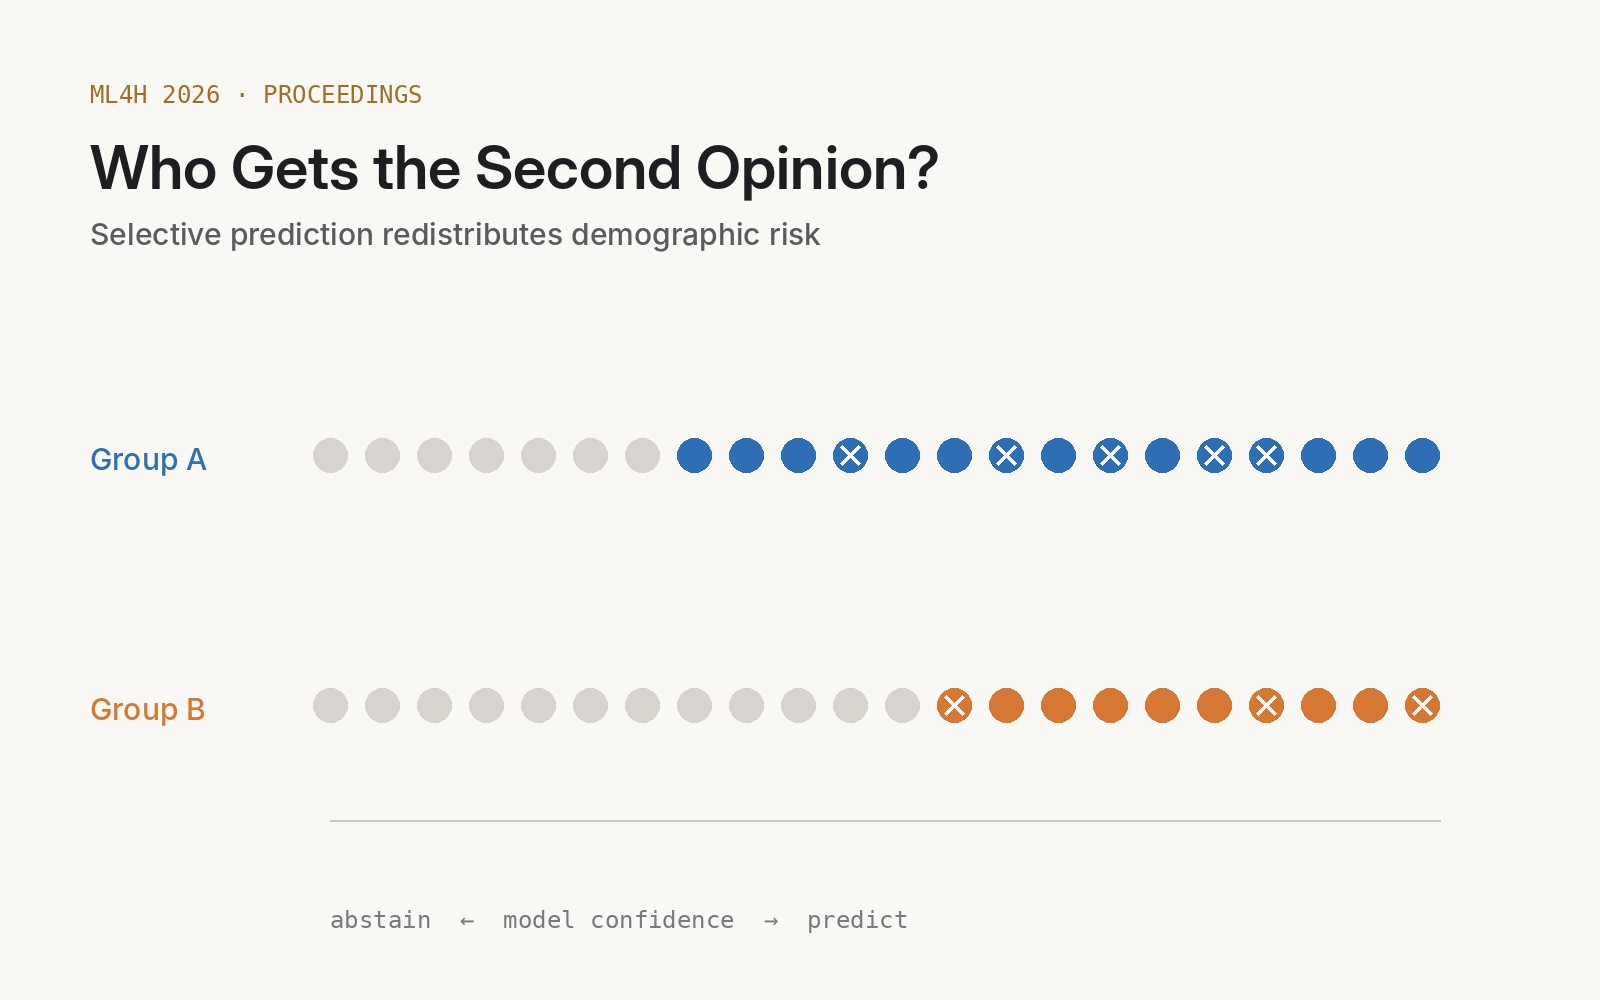
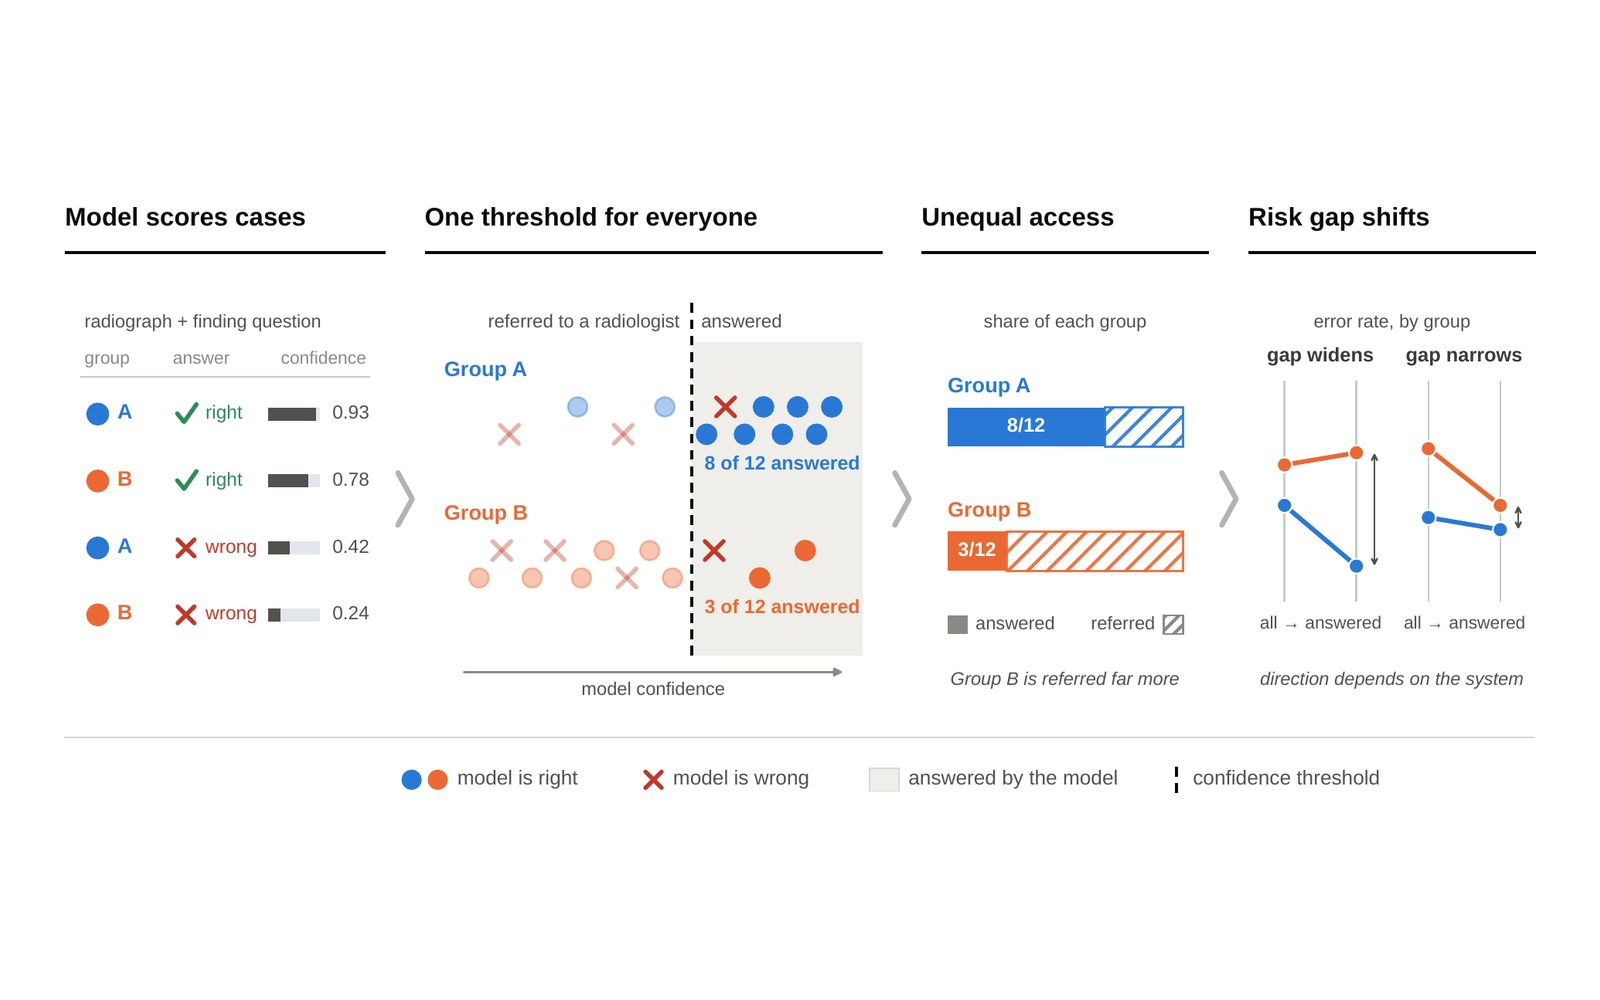
ML4H: use paper figures for thumbnail and gallery, camera-ready abstract
Claude-Session: https://claude.ai/code/session_01FrUed8rRhgVardZ2193Mgy

diff --git a/research.html b/research.html
@@ -538,9 +538,9 @@ main { padding-top: var(--nav-h); }
     <div class="pub-list" id="pubList">
 
       <!-- PROJECT: Who Gets the Second Opinion? (ML4H 2026 Proceedings) -->
-      <article class="pub reveal" id="second-opinion" data-year="2026" data-type="research" data-sortyear="2026.95" data-abstract="Selective prediction, in which a model abstains when uncertain, is widely proposed as a safety mechanism for clinical machine learning, but it is not well understood whether its benefits are shared equally across demographic groups. We evaluate five systems (zero-shot vision-language models and a supervised classifier) for chest radiograph finding classification on 117,926 patient-finding pairs from 17,318 patients, with external replication at a second institution, and measure how abstention changes demographic gaps in selective risk. Abstention does not uniformly widen these gaps; it redistributes them. At the prespecified 20% coverage, gaps widen for two systems and narrow for three, the direction flips with coverage for several systems, and it cannot be predicted from aggregate performance. Against a null in which abstention is random, gaps change beyond chance in 18 of 25 system-attribute combinations, but in only 1 of 5 for sex. Redistribution is not specific to zero-shot models: the supervised classifier, which has the highest failure-prediction AUROC in the study, shows the largest effect. A counterfactual that holds predictions fixed and changes only the confidence ranking shows that the ranking causally drives redistribution in some systems but not all. Theoretically, we show that even a correctness oracle applied at a common coverage c leaves group g with selective risk max(0, 1 &minus; a_g/c), so unequal group accuracies produce unequal residual risk even under perfect error identification. Under the same oracle, equalizing selective risk across groups (risk parity) costs nothing in aggregate utility and requires only reallocating coverage in proportion to group accuracy, subject to a feasibility condition that two of the five systems violate at 90% coverage. Because accuracy-optimal selective prediction is indifferent among coverage allocations with very different demographic risk profiles, the allocation a deployed system ends up with should be measured and reported, not left implicit.">
+      <article class="pub reveal" id="second-opinion" data-year="2026" data-type="research" data-sortyear="2026.95" data-abstract="Selective prediction, in which a model abstains when uncertain by withholding its answer and referring the case to a clinician, is widely proposed as a clinical safety mechanism on the assumption that it helps every patient group. We show that it instead redistributes demographic risk across groups rather than uniformly magnifying it. We study four chest-radiograph systems (three vision&#8211;language models and a supervised classifier) on 117,926 patient&#8211;finding evaluations from 17,318 patients, with external evaluation at a second institution. Gaps in selective risk widen for some systems and narrow for others, exceeding a random-score null in 15 of 20 system&#8211;attribute pairs. Under a single group-blind threshold, race groups can receive coverages ten points apart while their selective risks are nearly equal. Redistribution is robust to the label source and confidence read-out, but its direction depends on the deployed configuration and population. Reordering confidence with predictions held fixed shows that the ranking alone suffices to change the gap for one system. For a correctness oracle at equal within-group coverage, a gap set by group accuracies remains; reallocating coverage in proportion to group accuracy equalises selective risk without increasing aggregate oracle risk, but only within a feasibility region. Because equal selective risk, residual error burden and access to human review are distinct objectives, abstention should be audited by subgroup at deployment and re-audited when the deployment changes.">
         <a class="pub-card" href="#second-opinion">
-          <div class="pub-thumb"><img src="assets/figures/ml4h-second-opinion.jpg" alt="Schematic of selective prediction: two demographic groups with different abstention and residual error patterns" loading="lazy"><span class="pub-arrow"><svg viewBox="0 0 24 24" fill="none" stroke="currentColor" stroke-width="2.2" stroke-linecap="round" stroke-linejoin="round"><path d="M7 17 17 7M8 7h9v9"/></svg></span></div>
+          <div class="pub-thumb"><img src="assets/figures/ml4h-second-opinion.jpg?v=2" alt="Figure 1: one confidence threshold answers 8 of 12 cases for group A but 3 of 12 for group B, shifting the risk gap" loading="lazy"><span class="pub-arrow"><svg viewBox="0 0 24 24" fill="none" stroke="currentColor" stroke-width="2.2" stroke-linecap="round" stroke-linejoin="round"><path d="M7 17 17 7M8 7h9v9"/></svg></span></div>
           <div class="pub-body">
             <div class="pub-year">2026</div>
             <div class="pub-main">
@@ -725,7 +725,7 @@ Conclusions: Evidence linking postdiagnostic intake of red meat, poultry, and eg
   /* Each project groups its journal / conference / preprint outputs */
   const PROJECTS = {
     'second-opinion': [
-      { type: 'Conference', venue: 'Machine Learning for Health (ML4H) 2026, Proceedings track (PMLR)', year: 2026 },
+      { type: 'Conference', venue: 'Machine Learning for Health (ML4H) 2026, PMLR vol. 346', year: 2026 },
       { type: 'Code', venue: 'equitable-abstention on GitHub', year: 2026, url: 'https://github.com/haile-teshome/equitable-abstention' },
     ],
     'radoncreason': [
@@ -790,7 +790,10 @@ Conclusions: Evidence linking postdiagnostic intake of red meat, poultry, and eg
   /* ---------- Publication preview modal ---------- */
   /* Extra screenshots shown as a carousel in the preview modal */
   const GALLERIES = {
-    'second-opinion': ['assets/figures/ml4h-second-opinion.jpg'],
+    'second-opinion': [
+      'assets/figures/ml4h-second-opinion.jpg?v=2', 'assets/figures/gallery/ml4h-fig2-risk-gap.jpg',
+      'assets/figures/gallery/ml4h-fig5-oracle.jpg', 'assets/figures/gallery/ml4h-fig6-reallocation.jpg',
+    ],
     'radoncreason': ['assets/figures/radoncreason-poster.jpg'],
     'evidence-engine': [
       'assets/figures/evidence-engine.jpg', 'assets/figures/colm-poster.jpg',

diff --git a/index.html b/index.html
@@ -420,7 +420,7 @@ html:not(.wx-ready) .side-img, html:not(.wx-ready) .side-tint { transition: none
     <h2>Selected research</h2>
     <div class="cards">
       <a class="card" href="research.html#second-opinion">
-        <div class="fig"><img src="assets/figures/ml4h-second-opinion.jpg" alt="Schematic of selective prediction: two demographic groups with different abstention and residual error patterns" loading="lazy"></div>
+        <div class="fig"><img src="assets/figures/ml4h-second-opinion.jpg?v=2" alt="Figure 1: one confidence threshold answers 8 of 12 cases for group A but 3 of 12 for group B, shifting the risk gap" loading="lazy"></div>
         <div class="v">2026 · ML4H · PMLR</div>
         <h3>Who Gets the Second Opinion? Selective Prediction Redistributes Demographic Risk in Medical AI</h3>
         <div class="a"><b>Teshome H</b></div>
